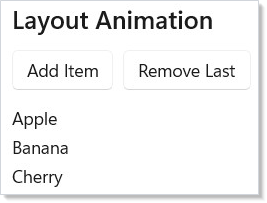
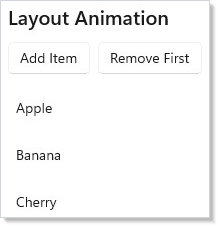
Layout animation doc and screenshot regenerated.

diff --git a/docs/guide/animation.md b/docs/guide/animation.md
@@ -233,8 +233,8 @@ class LayoutAnimationDemo : Component
                     nextId.Current++;
                     updateItems(l => [$"Item {nextId.Current}", .. l]);
                 }),
-                Button("Remove Last", () =>
-                    updateItems(l => l.Count > 0 ? l[1..].ToList() : l))
+                Button("Remove First", () =>
+                    updateItems(l => l.Count > 0 ? l[1..] : l))
             ),
             VStack(4, items.Select(item =>
                 TextBlock(item)
